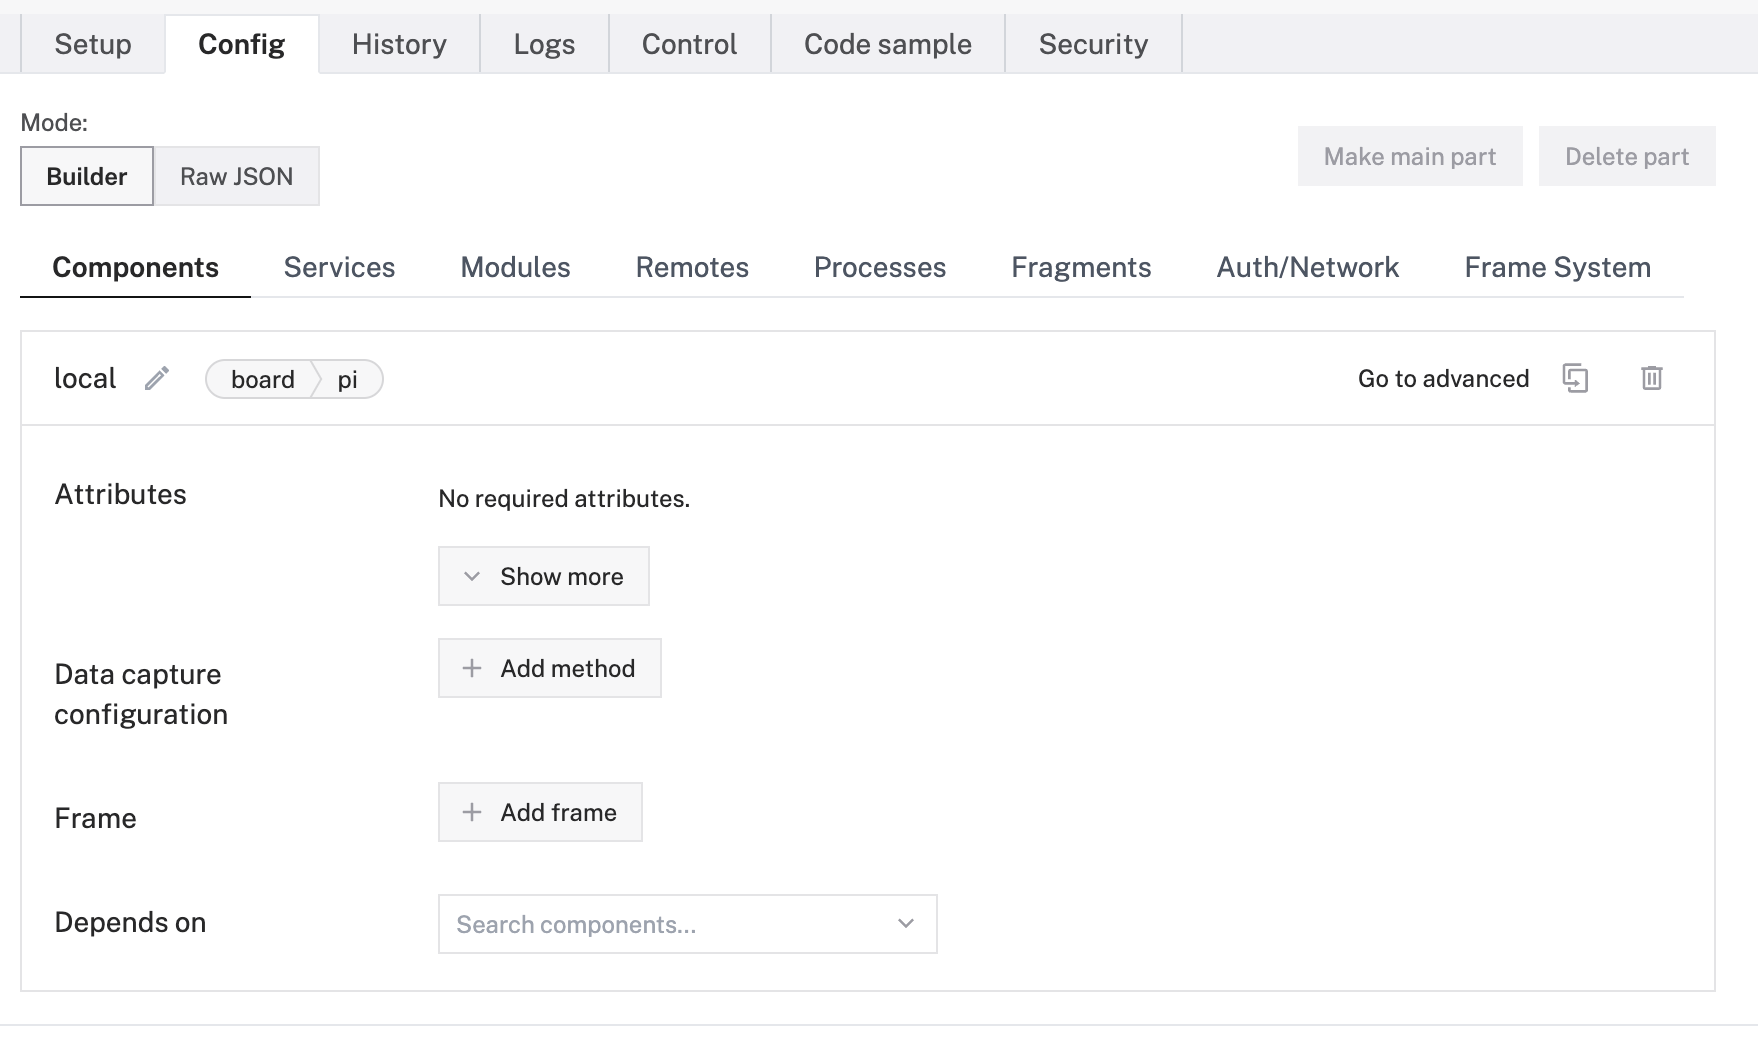
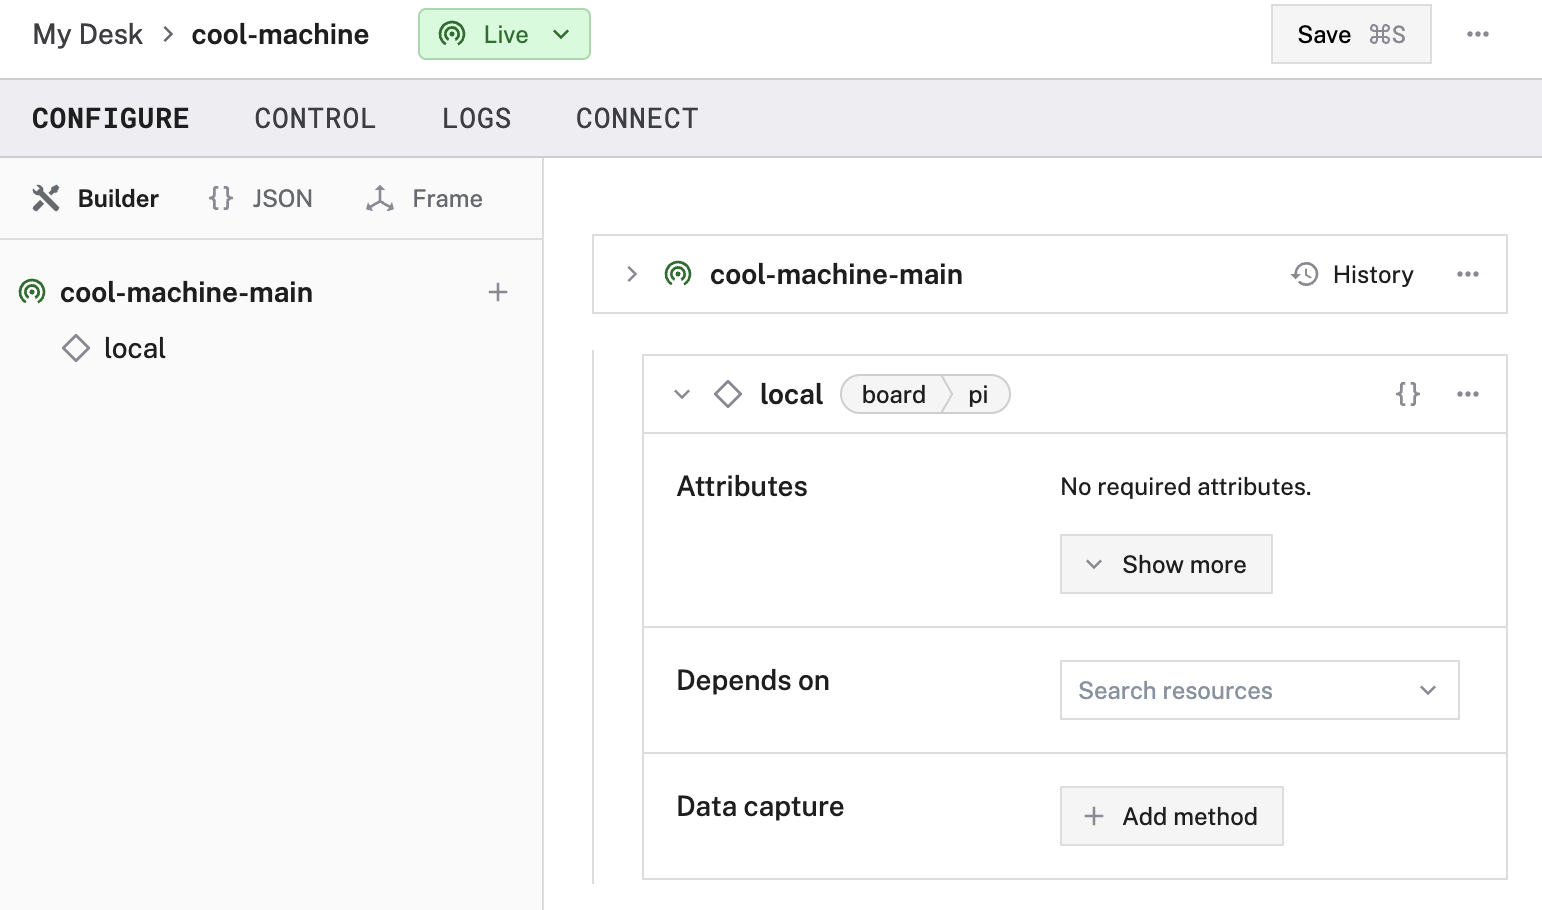
DOCS-1961: Update plant watering robot tutorial for R2D2 and remove motor component (#2819)

diff --git a/docs/tutorials/projects/make-a-plant-watering-robot.md b/docs/tutorials/projects/make-a-plant-watering-robot.md
@@ -11,7 +11,7 @@ languages: ["python"]
 viamresources: ["board", "motor", "sensor", "module"]
 level: "Intermediate"
 date: "2023-03-29"
-# updated: "2023-09-25"
+# updated: "2024-04-19"
 cost: 150
 no_list: true
 # SMES: Olivia Miller, Sierra Guequierre, Hazal Mestci
@@ -118,7 +118,7 @@ Put the soil moisture sensor inside of the container holding your plant.
 
 ### Wire your pump
 
-Now, wire and power your pump [motor](/components/motor/) and relay module to complete your hardware setup:
+Now, wire and power your pump and relay module to complete your hardware setup:
 
 1. Attach an [alligator wire clip](https://www.amazon.com/Goupchn-Alligator-Breadboard-Flexible-Electrical/dp/B08M5P6LHR/) to your 5V pump motor's positive wire, and connect it to the NO pin on relay module.
    NO stands for normally open, which will keep the circuit open unless the pin is triggered.
@@ -263,17 +263,22 @@ Test your sensor by putting it in air, water, and different soils to see how the
 
 {{% snippet "setup.md" %}}
 
-Then, navigate to your new machine's page in the app and click on the **Config** tab.
+Then, navigate to the the **CONFIGURE** tab of your new machine's page in the app.
 
-First, add your Pi as a [board component](/components/board/) by creating a new component with **type** `board` and **model** `pi`:
+First, add your Pi as a [board component](/components/board/):
 
 {{< tabs name="Configure an Pi Board" >}}
 {{% tab name="Config Builder" %}}
 
+Click the **+** icon next to your machine part in the left-hand menu and select **Component**.
+Select the `board` type, then select the `pi` model.
+Enter a name for your board and click **Create**.
+This tutorial uses the name `local`.
+
 ![Creation of a pi board in the Viam app config builder.](/tutorials/plant-watering-pi/pi-board-config-builder.png)
 
 {{% /tab %}}
-{{% tab name="Raw JSON" %}}
+{{% tab name="JSON" %}}
 
 ```json {class="line-numbers linkable-line-numbers"}
 {
@@ -285,55 +290,13 @@ First, add your Pi as a [board component](/components/board/) by creating a new 
       "namespace": "rdk",
       "attributes": {},
       "depends_on": []
-    } // Motor JSON ...
+    }
   ]
 }
 ```
 
 {{% /tab %}}
 {{< /tabs >}}
-
-Then, add your pump as a [motor component](/components/motor/) by adding a new component with **type** `motor` and **model** `gpio`.
-
-Set the motor's attributes **Max RPM** to `1000` and **PWM** to `8 GPIO 14` (the board and GPIO pin that you wired the relay's IN to).
-
-{{< tabs name="Configure an Pump Motor" >}}
-{{% tab name="Config Builder" %}}
-
-![Creation of a pump motor in the Viam app config builder.](/tutorials/plant-watering-pi/pump-motor-config-builder.png)
-
-{{% /tab %}}
-{{% tab name="Raw JSON" %}}
-
-```json {class="line-numbers linkable-line-numbers"}
-// Board JSON ... },
-{
-  "name": "water-pump",
-  "model": "gpio",
-  "type": "motor",
-  "namespace": "rdk",
-  "attributes": {
-    "pins": {
-      "a": "",
-      "b": "",
-      "dir": "",
-      "pwm": "8"
-    },
-    "board": "local",
-    "max_rpm": 1000
-  },
-  "depends_on": []
-}
-```
-
-{{% /tab %}}
-{{< /tabs >}}
-
-Click **Save config**.
-
-Now, if you navigate to your machine's **Control** tab, you should be able to control the motor by setting the power and direction of rotation and clicking the **RUN** button:
-
-![Creation of a pump motor in the Viam app config builder.](/tutorials/plant-watering-pi/pump-motor-control.png)
 
 #### Configure the ADC as a module from the registry
 
@@ -348,16 +311,17 @@ A _module_ provides one or more {{< glossary_tooltip term_id="modular-resource" 
 A module can be added to your robot from the Viam registry.
 
 The [Viam registry](https://app.viam.com/registry) allows hardware and software engineers to collaborate on their robotics projects by writing and sharing custom modules with each other.
-You can add a module from the Viam registry directly from your robot’s Configuration tab in the Viam app, using the + Create component button.
+You can add a module from the Viam registry directly from your robot’s **CONFIGURE** tab in the Viam app, using the **+** (Create) button.
 
 Add the mcp300x-adc-sensor module to your robot in 3 steps:
 
-1. Go to your machine's **Config** tab.
-   Select **Create component**.
-2. Search mcp300x.
+1. Go to your machine's **CONFIGURE** tab.
+   Click the **+** icon next to your machine part in the left-hand menu and select **Component**.
+2. Search for `mcp300x` and select `sensor / mcp300x`.
    Click **Add module**.
-3. Give your module a name of your choice, and click **Create** to add this module to your machine.
-4. Find your module's card on the **Config** page.
+3. Give your module a name of your choice. We used the name `sensor`.
+4. Click **Create** to add this module to your machine.
+5. Find your module's card on the **CONFIGURE** page.
    In the attributes field, add the necessary attributes as `"channel_map"` and `"sensor_pin"`.
    For example, if you have a moisture sensor on channel 0, and your `sensor_pin` is 8, your configuration should look like this:
 
@@ -370,7 +334,7 @@ Add the mcp300x-adc-sensor module to your robot in 3 steps:
    }
    ```
 
-Save your config.
+Save your config by clicking **Save** in the top right corner of the page.
 
 This module allows you to get multiple readings at the same time from different channels of the ADC sensor.
 If you wire and configure another sensor, such as a temperature sensor on channel 1, you can add the sensor to the `"channel_map"` and get a reading from it.
@@ -379,20 +343,21 @@ If you wire and configure another sensor, such as a temperature sensor on channe
 If you would like to see how the module works, you can find its code on [GitHub](https://github.com/viam-labs/mcp300x-adc-sensor).
 {{< /alert >}}
 
-Now that you have set up your robot and are able to control your motor, you can put the suction tube of your pump into the water cup, and the output tube into the plant!
+Now that you have set up your robot, you can put the suction tube of your pump into the water cup, and the output tube into the plant!
 
 ### Add Python control code
 
 Follow these instructions to start working on your Python control code:
 
-1. Navigate to your machine's page in [the Viam app](https://app.viam.com), and click on the **Code sample** tab.
+1. Navigate to your machine's page in [the Viam app](https://app.viam.com), and click on the **CONNECT** tab and the **Code sample** page.
 2. Select **Python** as the language.
-3. Click **Copy** to copy the generated code sample, which establishes a connection with your robot when run.
+3. Follow the instructions shown under step 1 on that page to install the SDK.
+4. Then, under step 2 on that page, click the copy icon to copy the generated code sample, which establishes a connection with your robot when run.
 
    {{% snippet "show-secret.md" %}}
 
-4. Paste this code sample into a new file in the `plant-watering-robot` directory you created on your Pi.
-5. Name the file <file>plant-watering-robot.py</file>, and save it.
+5. Paste this code sample into a new file in the `plant-watering-robot` directory you created on your Pi.
+6. Name the file <file>plant-watering-robot.py</file>, and save it.
 
 For example, run the following commands on your Pi to create and open the file:
 
@@ -405,14 +370,15 @@ nano plant-watering-robot.py
 Now, you can add code into <file>plant-watering-robot.py</file> to write the logic that defines your plant watering system.
 
 To start, add your system logic code into the `main()` function of the program.
-Use the Viam [motor](/components/motor/#api) and [sensor](/components/sensor/#control-your-sensor-with-viams-client-sdk-libraries) API methods.
+Use the Viam [board](/components/board/#api) and [sensor](/components/sensor/#control-your-sensor-with-viams-client-sdk-libraries) API methods to read from the moisture sensor and control the pump's voltage with PWM as a GPIO pin.
 
 You can get your components from the robot like this:
 
 ```python
-# Note that this name, `sensor`, is defined when you add the module
+# Note that this name, `sensor`, is defined when you add the mcp300x module
 sensor = Sensor.from_robot(robot=robot, name='sensor')
-water_pump = Motor.from_robot(robot=robot, name='water-pump')
+# Note that this name, `local`, is defined when you add the board
+local = Board.from_robot(machine, "local")
 ```
 
 And you can add your system logic to run continuously like this:
@@ -433,8 +399,22 @@ while True:
     if (avg_moisture > 60000):
         print('this plant is too thirsty! giving it more water')
 
-        # Run the water pump for 100 rev. at 1000 rpm
-        await water_pump.go_for(rpm=1000, revolutions=100)
+        # Get the GPIO pin with PWM output (pin number 8) the water pump is
+        # wired to on the board through the relay's IN wire
+        pwm_pin = await local.gpio_pin_by_name(name="8")
+
+        # Run the water pump
+        # Set the duty cycle to .8, meaning that this pin will be in the
+        # high state, powering the pump motor, for 80% of the duration of the
+        # PWM interval period
+        await pwm_pin.set_pwm(duty=0.8)
+
+        # Wait for 15 seconds
+        print('watering')
+        time.sleep(15)
+
+        # Stop the pump by setting the duty cycle to 0%
+        await pwm_pin.set_pwm(duty=0.0)
 
         # Wait 60 seconds so that the water can soak into the soil a bit before
         # trying to water again
@@ -446,8 +426,6 @@ while True:
 Make sure to import `time` at the beginning of your version of <file>plant-watering-robot.py</file> to be able to use `sleep()`!
 Also, make sure to import `viam.components.sensor`.
 {{% /alert %}}
-
-See the motor component's [API documentation](/components/motor/#gofor) for more information about `water_pump.go_for()`.
 
 Save your <file>plant-watering-robot.py</file> program with this logic added in, and then run it on your Pi like this:
 
